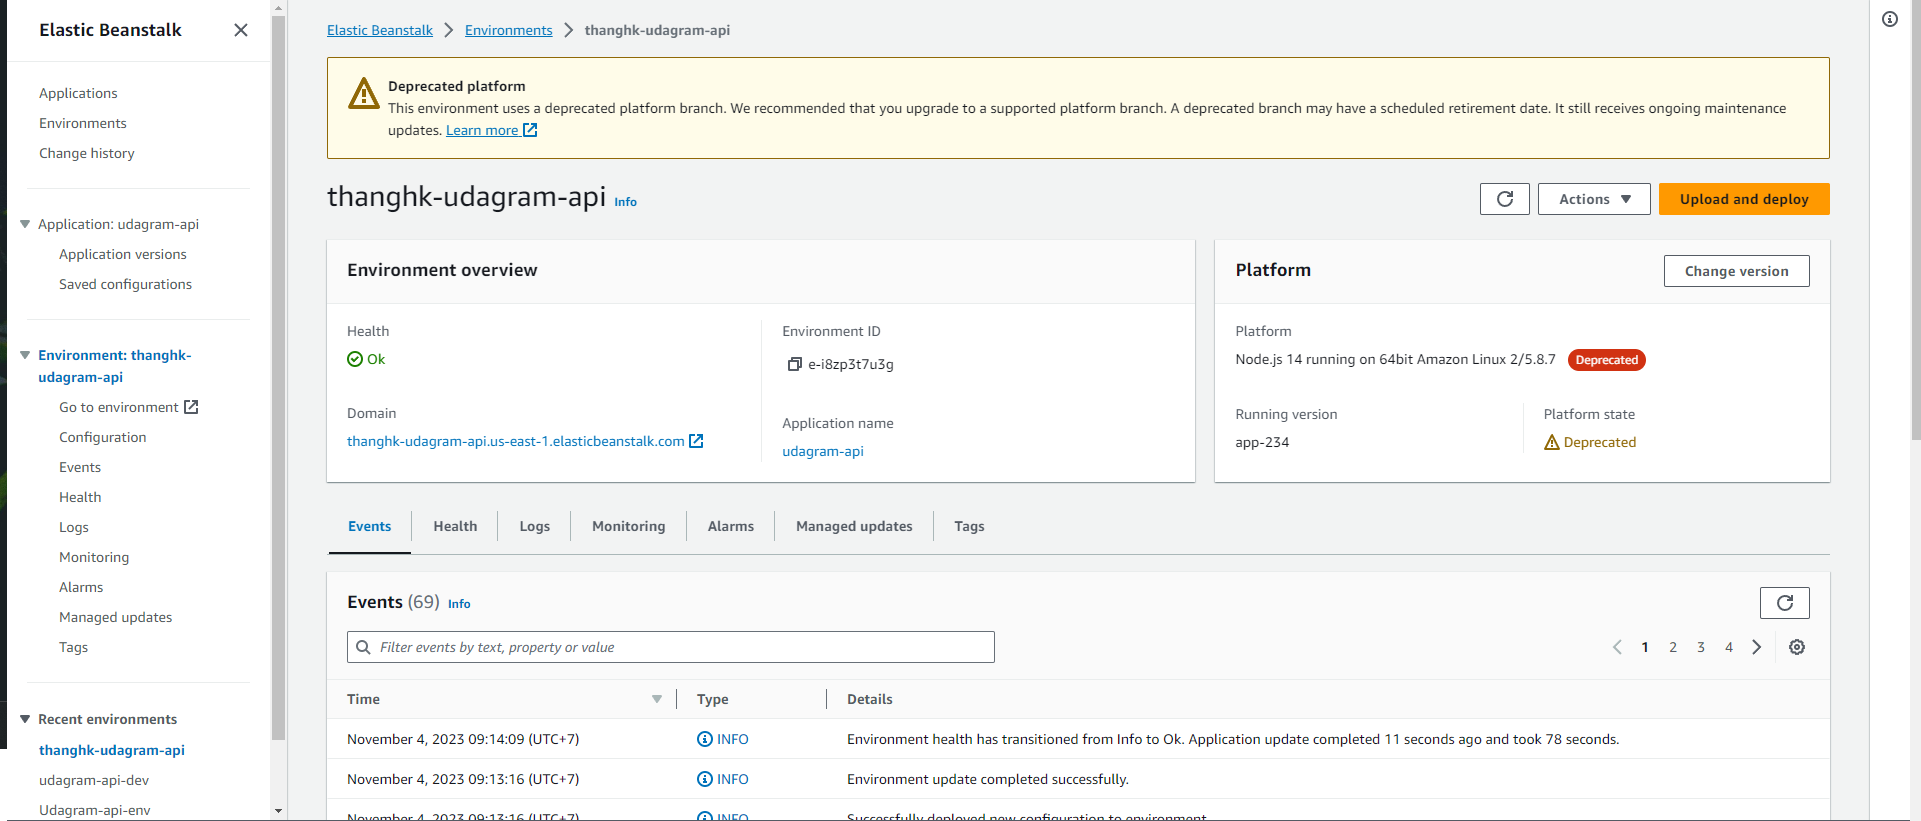
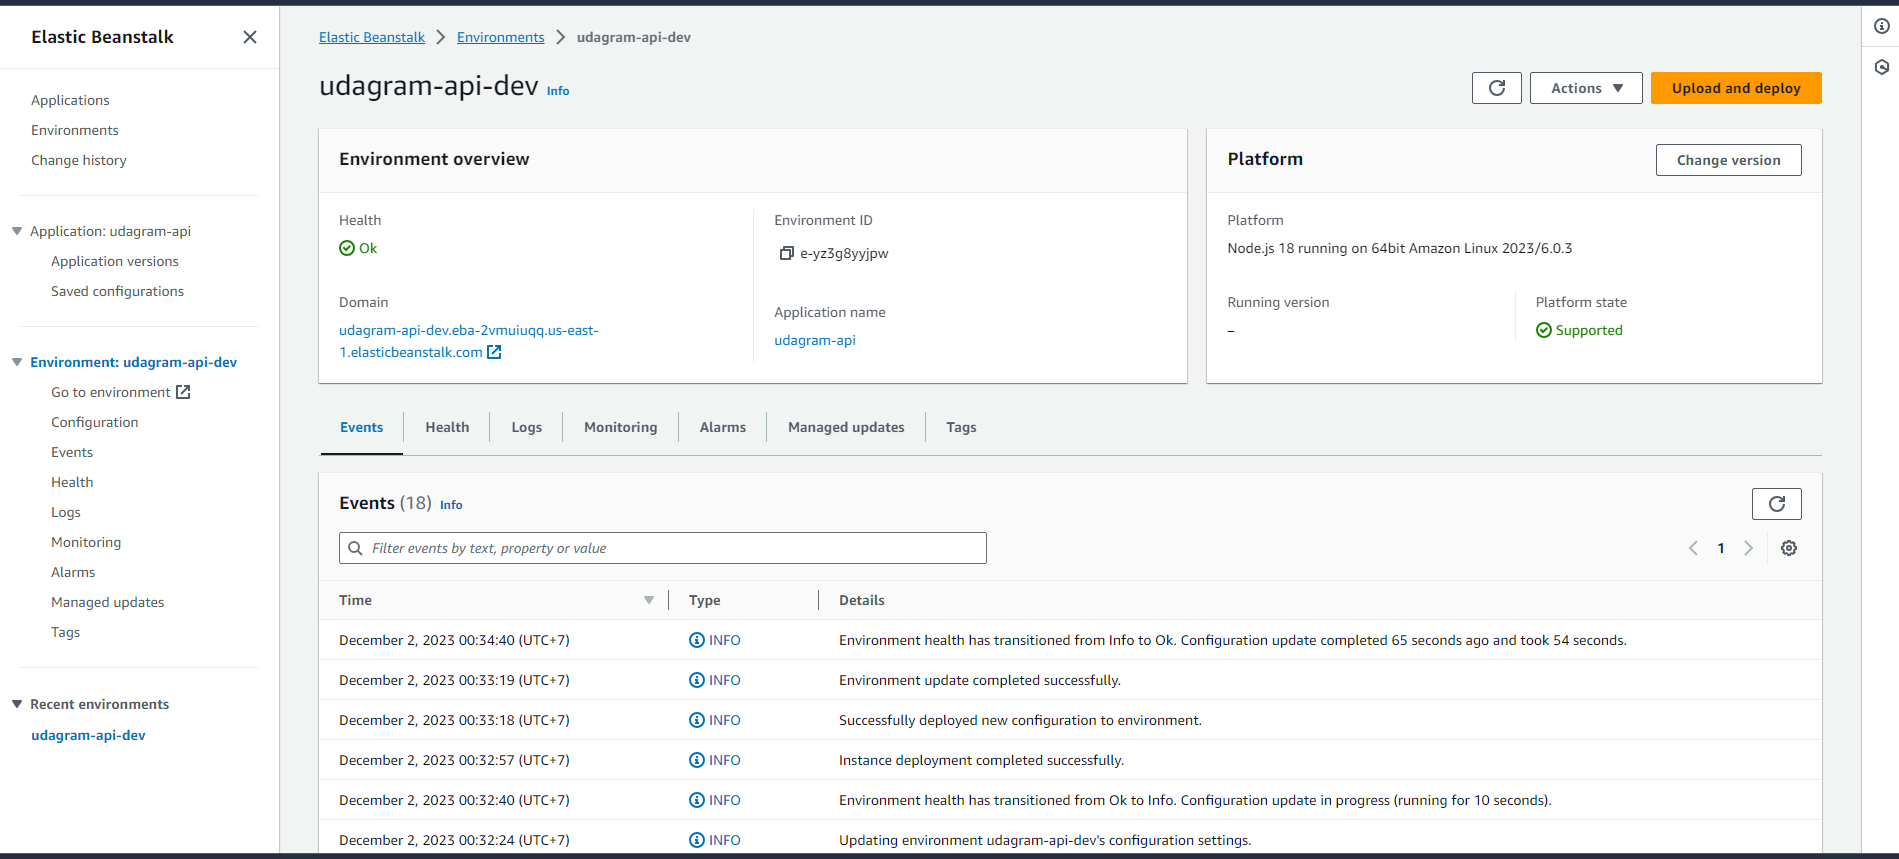
update coding and pic

diff --git a/udagram/udagram-frontend/src/environments/environment.ts b/udagram/udagram-frontend/src/environments/environment.ts
@@ -4,8 +4,9 @@
 
 export const environment = {
   production: false,
-  appName: "Udagram",
-  apiHost: "http://thanghk-udagram-api.us-east-1.elasticbeanstalk.com/api/v0",
+  appName: "udagram-api-dev",
+  apiHost:
+    "http://udagram-api-dev.eba-2vmuiuqq.us-east-1.elasticbeanstalk.com/api/v0",
 };
 
 /*

diff --git a/udagram/udagram-frontend/src/environments/environment.prod.ts b/udagram/udagram-frontend/src/environments/environment.prod.ts
@@ -4,8 +4,9 @@
 
 export const environment = {
   production: true,
-  appName: "Udagram",
-  apiHost: "http://thanghk-udagram-api.us-east-1.elasticbeanstalk.com/api/v0",
+  appName: "udagram-api-dev",
+  apiHost:
+    "http://udagram-api-dev.eba-2vmuiuqq.us-east-1.elasticbeanstalk.com/api/v0",
 };
 
 /*

diff --git a/README.md b/README.md
@@ -68,8 +68,8 @@ The e2e tests are using Protractor and Jasmine.
 ## Project Link
 
 This is my url deploy:
-Frontend: http://my-bucket-18061995-udagram.s3-website-us-east-1.amazonaws.com
-Backend: http://thanghk-udagram-api.us-east-1.elasticbeanstalk.com/
+Frontend: http://sontsh-udagram.s3-website-us-east-1.amazonaws.com/
+Backend: http://udagram-api-dev.eba-2vmuiuqq.us-east-1.elasticbeanstalk.com/
 
 ## License
 
